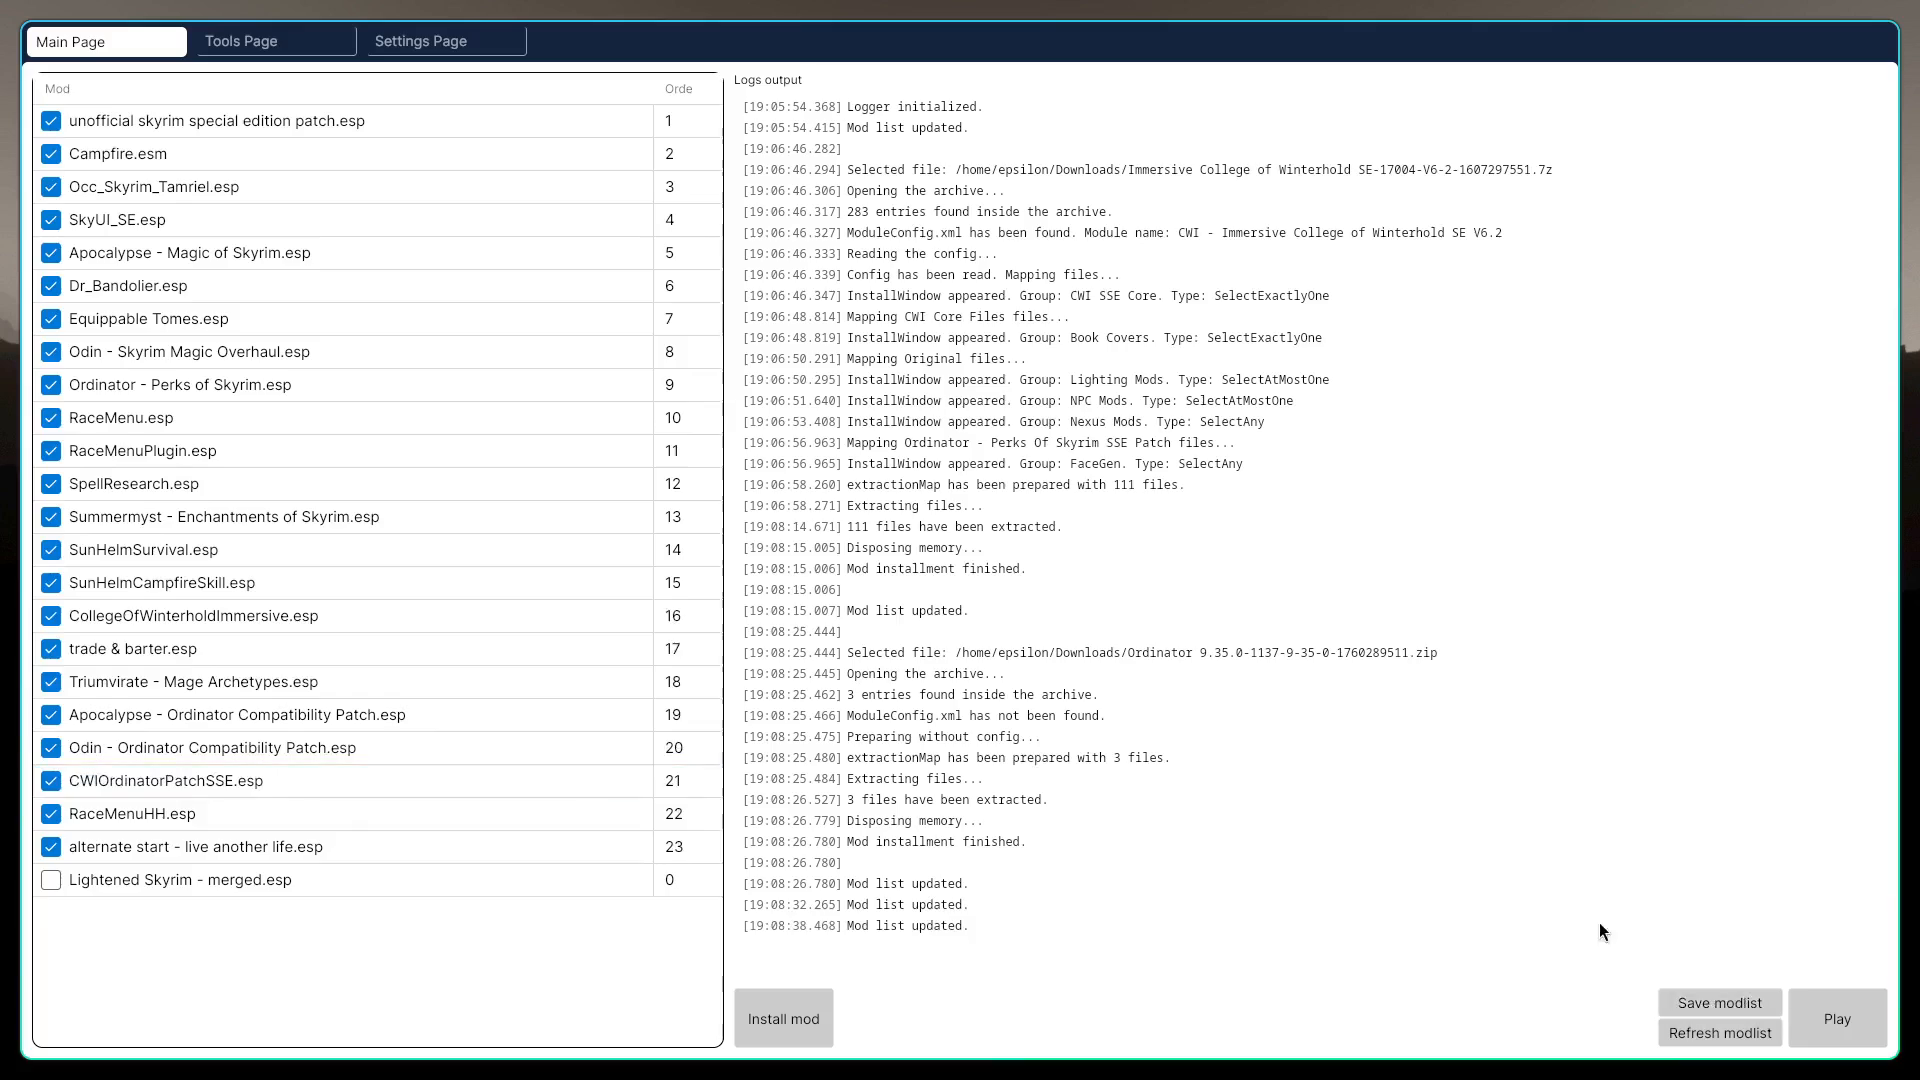
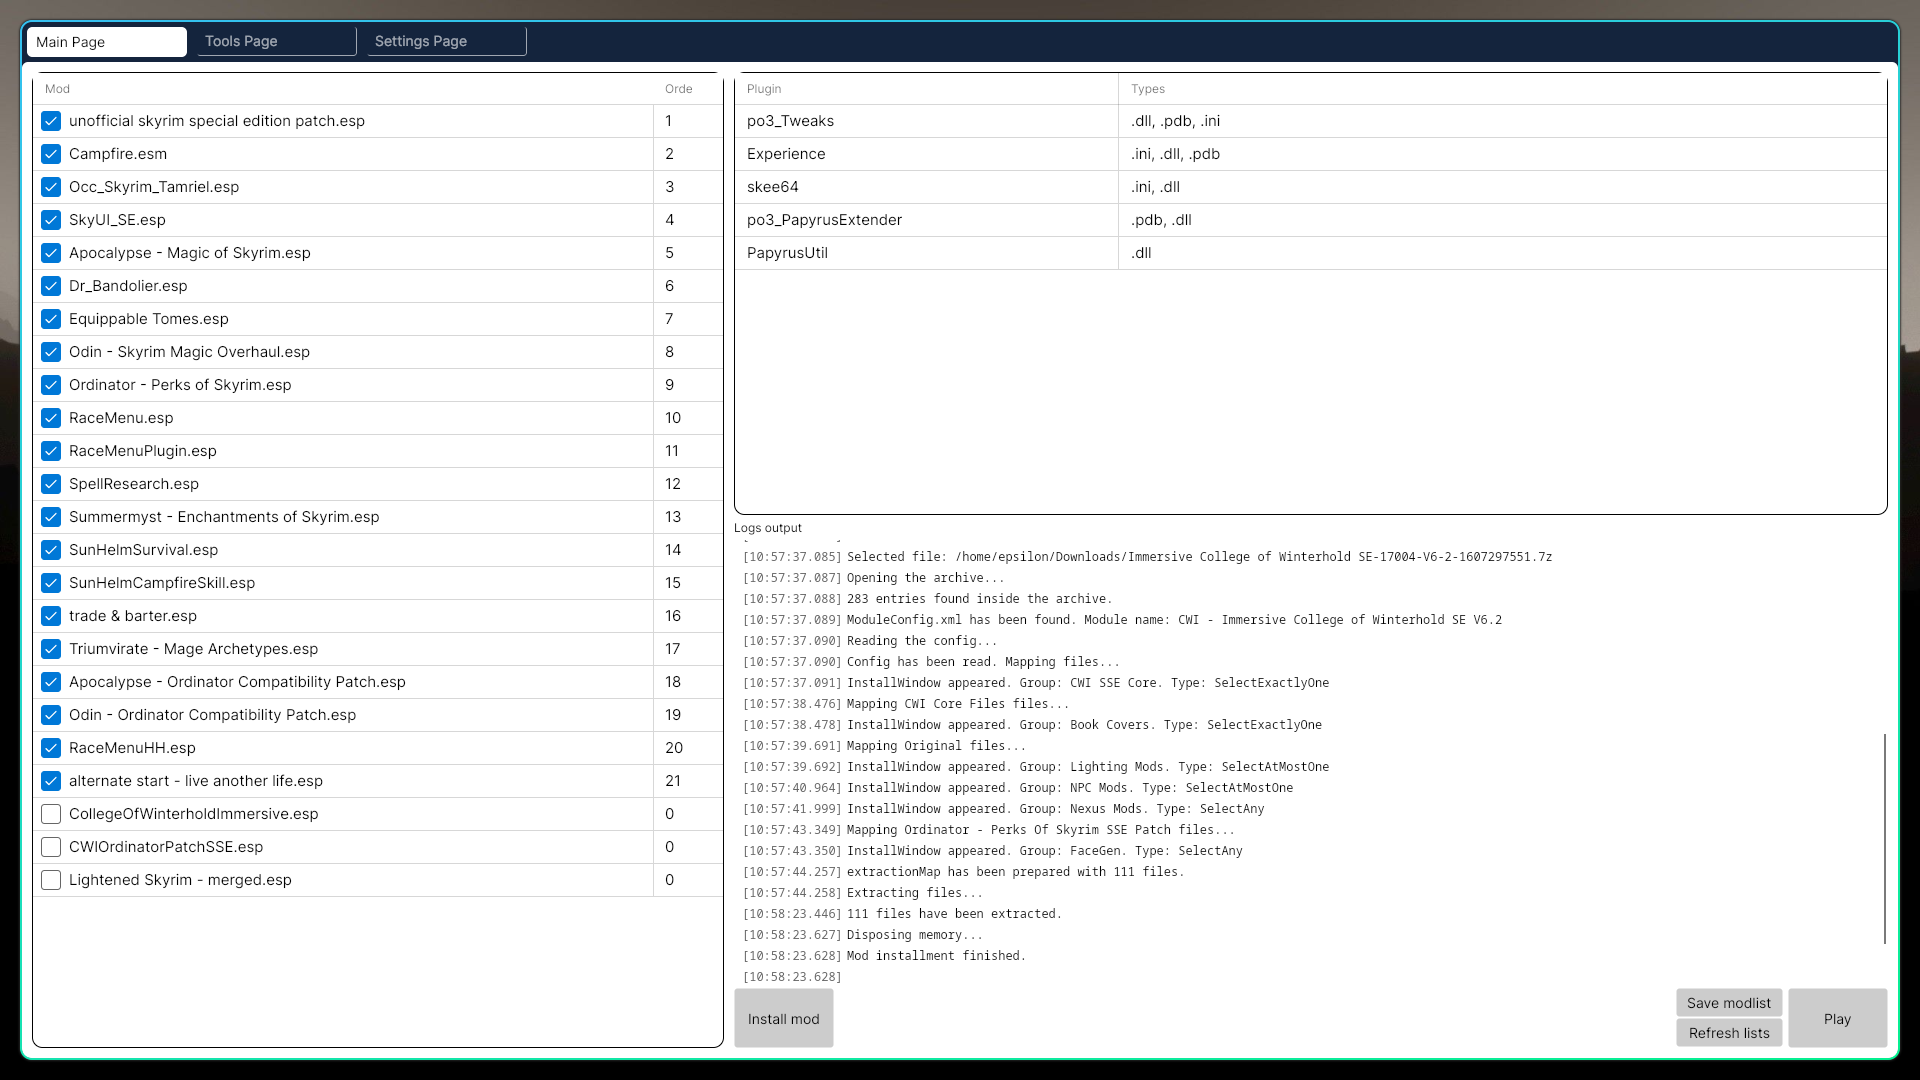
update readme file due to page changes

diff --git a/README.md b/README.md
@@ -31,7 +31,9 @@ Main page contains functionality to install and order mods.
 * **`Navigation bar`** - on the top of the app you can see three tabs. Their names speak for themselves. Just press on them to go on that page.
 * **`Current mod list`** - on the left side is the list of mods (.esp/.esm/.esl) mentioned in the `Plugins.txt` file. The checkbox represents the `*` symbol in a string, saying whether the mod is currently on or off.
   You're also able to reorder them by drag-and-dropping, thanks to [@aldelaro5](https://github.com/aldelaro5) for the [solution](https://github.com/AvaloniaUI/Avalonia/discussions/10877).
+* **`Current plugins list`** - on the right, displays current `.dll` files inside the `Data/SKSE/Plugins` folder. Basically, the skse plugins list.
 * **`Logs output`** - logs errors, warnings, mod installation process.
+* **`Buttons`** - their names speak for themselves.
 
 > [!CAUTION]
 > Canceling mod installation is not included in program yet, be careful.
